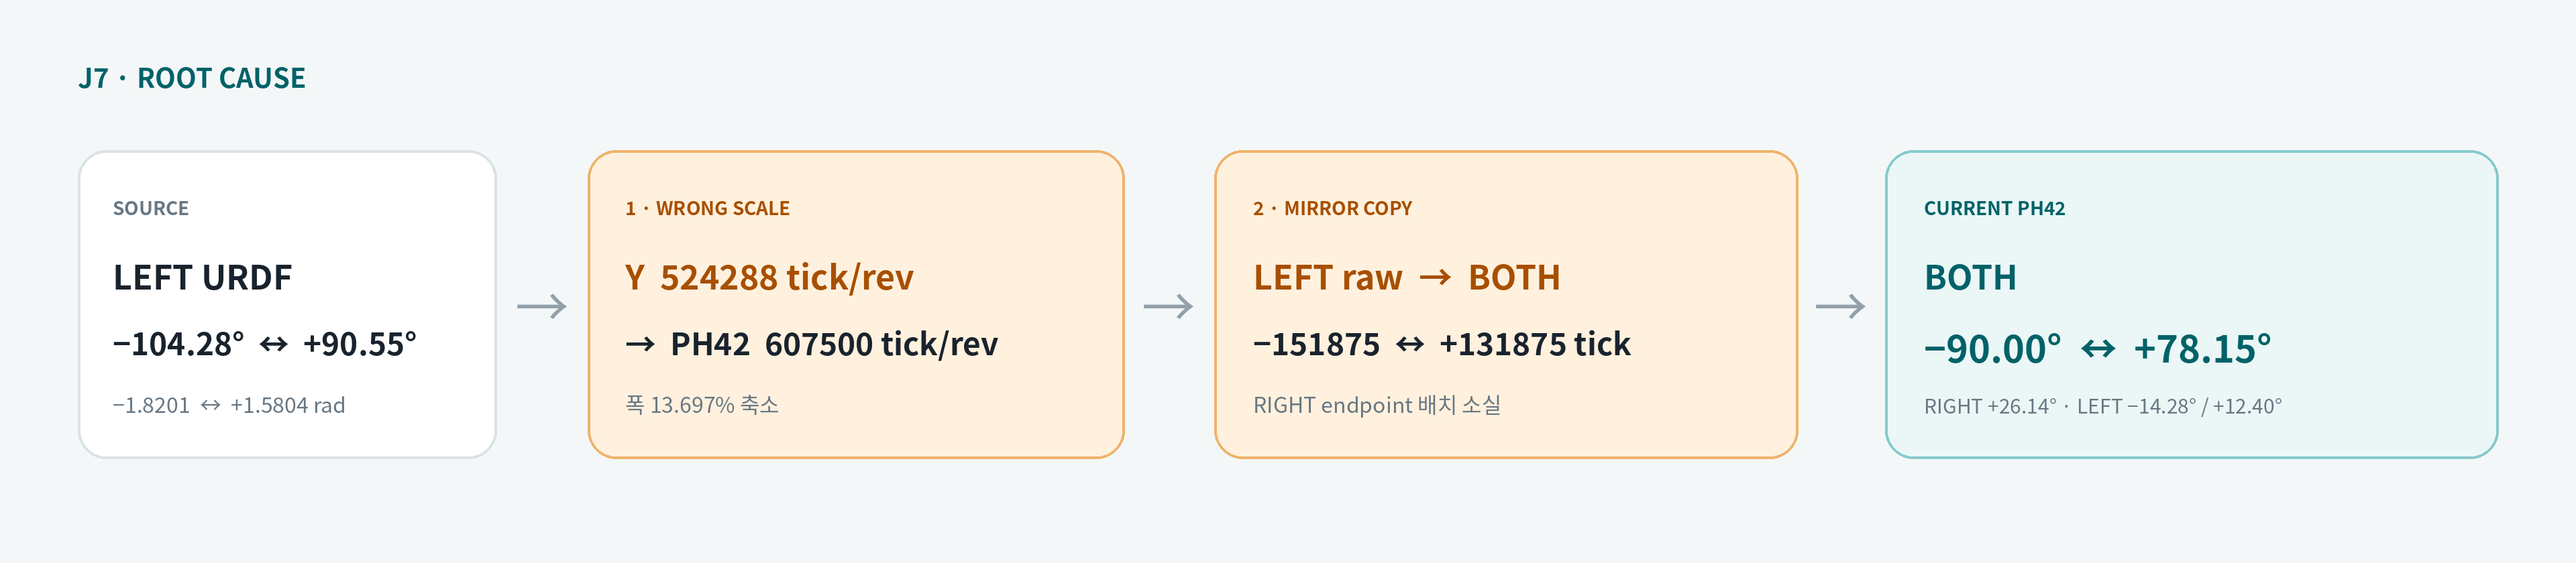
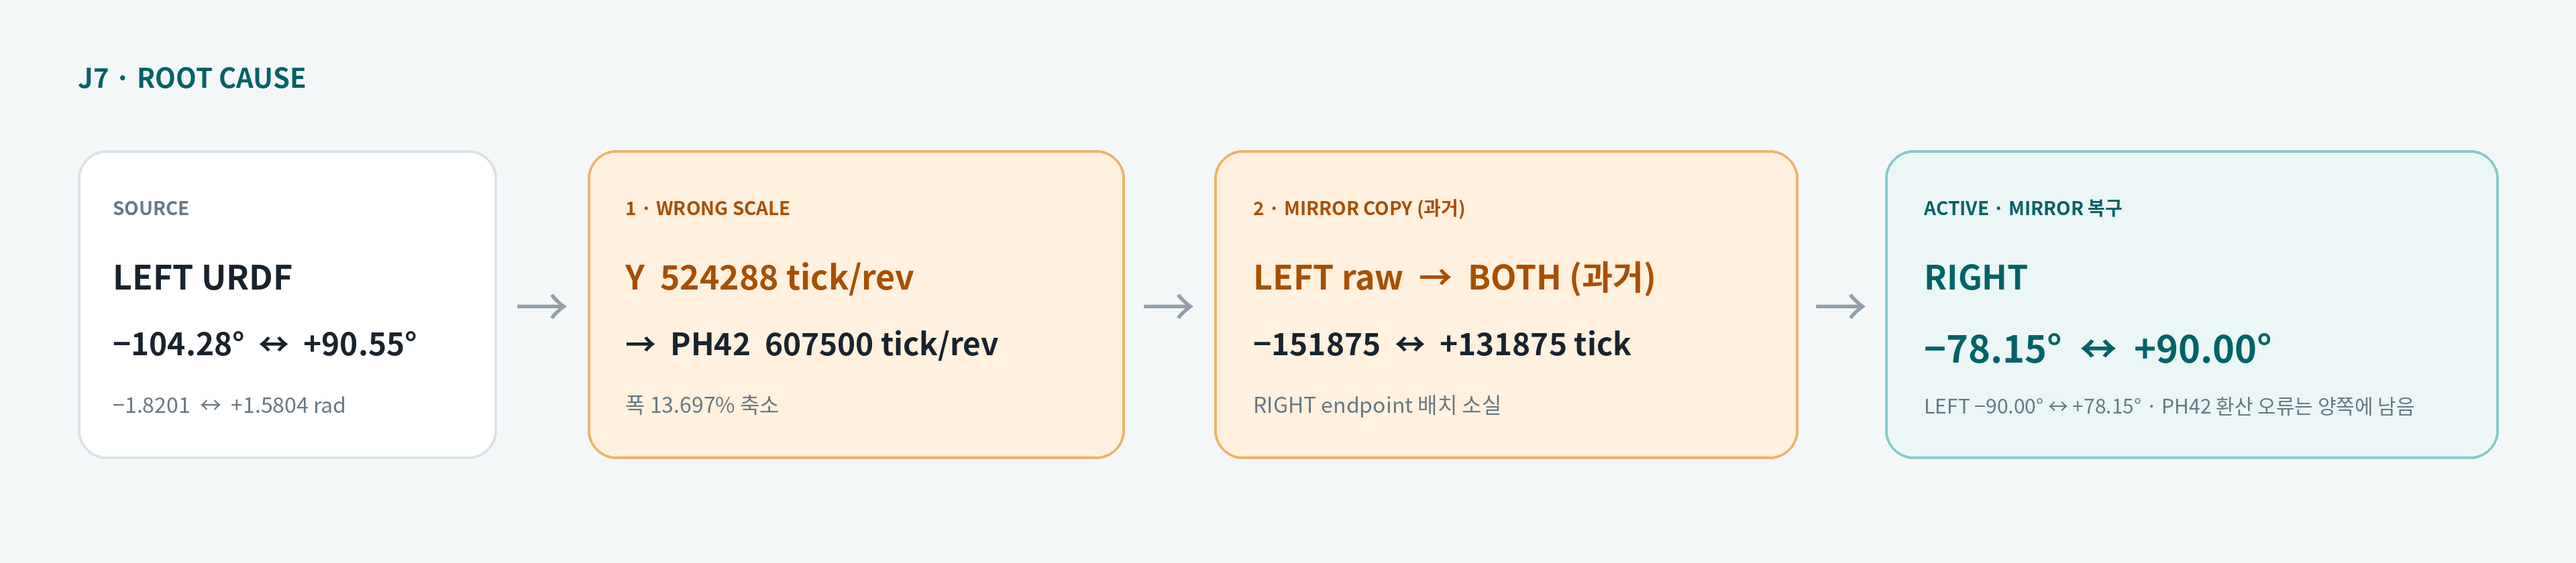
[REVIEW] F2 Safety: align mirrored J7 limits across profiles

diff --git a/docs/review/assets/f2_j7/J7_URDF_DXL_RANGE_VISUALIZATION.html b/docs/review/assets/f2_j7/J7_URDF_DXL_RANGE_VISUALIZATION.html
@@ -410,7 +410,7 @@
     <div>
       <p class="eyebrow">AI WORKER · F2 FOLLOWER · J7</p>
       <h1>URDF는 허용하지만, 현재 DXL은 막는다</h1>
-      <p class="subtitle">양쪽 모두 가동 폭이 줄었고, 좌우 mirror 복사 오류 때문에 오른손 +방향 손실이 특히 크다.</p>
+      <p class="subtitle">좌우 mirror 복사는 바로잡았지만, PH42 분해능 환산 오류가 남아 양쪽 가동 폭은 여전히 좁다.</p>
     </div>
     <div class="view-badge">HEAD CAM VIEW&nbsp; · &nbsp;왼손 ← 화면 → 오른손</div>
   </header>
@@ -516,7 +516,7 @@
         <circle class="ring-urdf" cx="300" cy="219" r="154" pathLength="360"
                 stroke-dasharray="194.834 165.166" transform="rotate(75.716 300 219)"/>
         <circle class="ring-dxl" cx="300" cy="219" r="154" pathLength="360"
-                stroke-dasharray="168.148 191.852" transform="rotate(101.852 300 219)"/>
+                stroke-dasharray="168.148 191.852" transform="rotate(90 300 219)"/>
         <circle class="ring-outline" cx="300" cy="219" r="171" pathLength="360"
                 stroke-dasharray="194.834 165.166" transform="rotate(75.716 300 219)"/>
 
@@ -525,8 +525,8 @@
         <path class="dir-arrow" d="M 180 125 A 150 150 0 0 0 148 168" marker-end="url(#arrow-r)"/>
         <text class="arc-label" x="139" y="119">+ θ</text>
         <path d="M225 88 L294 67" fill="none" stroke="#a44e00" stroke-width="1.5"/>
-        <text class="loss-label" x="172" y="91">0.55°</text>
-        <text class="loss-label" x="300" y="373" text-anchor="middle">26.14°</text>
+        <text class="loss-label" x="172" y="91">12.40°</text>
+        <text class="loss-label" x="300" y="373" text-anchor="middle">14.28°</text>
 
         <g transform="translate(300 219) scale(-1 1)" filter="url(#soft-shadow-r)" aria-label="HX2-D1 계열 그리퍼 실루엣">
           <path class="grip-arm" d="M-176,-25 H-56 L-38,-35 H-8 V35 H-38 L-56,25 H-176 Z"/>
@@ -543,16 +543,16 @@
         </g>
 
         <text class="range-main" x="300" y="406" text-anchor="middle">DXL 밖 26.69°</text>
-        <text class="range-sub" x="300" y="424" text-anchor="middle">오른손은 손실 대부분이 +방향에 몰림</text>
+        <text class="range-sub" x="300" y="424" text-anchor="middle">좌우 active 범위는 서로 mirror 관계</text>
       </svg>
 
       <div class="loss-chips" aria-label="오른손 부족 범위">
-        <div class="chip">− 방향 부족 <strong>0.55°</strong></div>
-        <div class="chip critical">+ 방향 부족 <strong>26.14°</strong></div>
+        <div class="chip">− 방향 부족 <strong>12.40°</strong></div>
+        <div class="chip critical">+ 방향 부족 <strong>14.28°</strong></div>
       </div>
 
       <div class="range-table">
-        <div class="ruler" style="--u1:8.841%;--u2:97.402%;--d1:9.091%;--d2:85.522%;">
+        <div class="ruler" style="--u1:8.841%;--u2:97.402%;--d1:14.478%;--d2:90.909%;">
           <span class="urdf-band"></span><span class="dxl-band"></span>
         </div>
         <div class="range-row">
@@ -565,8 +565,8 @@
         <div class="range-row">
           <div class="row-name"><span class="swatch dxl"></span>현재 DXL</div>
           <div class="values">
-            <strong>−90.00° ↔ +78.15°</strong>
-            <small>−1.570796 ↔ +1.363942 rad · −151875 ↔ +131875 tick</small>
+            <strong>−78.15° ↔ +90.00°</strong>
+            <small>−1.363942 ↔ +1.570796 rad · −131875 ↔ +151875 tick</small>
           </div>
         </div>
       </div>
@@ -574,7 +574,7 @@
   </section>
 
   <section class="cause" aria-label="오류 발생 흐름">
-    <h2>두 문제가 겹친 과정</h2>
+    <h2>두 오류와 현재 검토 소스의 처리</h2>
     <div class="flow">
       <div class="flow-step">
         <span class="step-no">SOURCE</span>
@@ -591,13 +591,13 @@
       <div class="flow-step problem">
         <span class="step-no">문제 2 · MIRROR 복사</span>
         <strong>왼손 raw 값을 오른손에도 복사</strong>
-        <p>양쪽 모두 −151875 ↔ +131875 tick</p>
+        <p>과거에는 양쪽 모두 −151875 ↔ +131875 tick</p>
       </div>
       <div class="flow-arrow">→</div>
       <div class="flow-step result">
-        <span class="step-no">현재 PH42 해석</span>
-        <strong>양쪽 모두 −90.00° ↔ +78.15°</strong>
-        <p>오른손 URDF +104.28° 명령은 +26.14°만큼 DXL hard max를 넘어감</p>
+        <span class="step-no">현재 active · MIRROR 복구</span>
+        <strong>오른손 −78.15° ↔ +90.00°</strong>
+        <p>왼손은 −90.00° ↔ +78.15° · PH42 분해능 오류는 양쪽에 남음</p>
       </div>
     </div>
   </section>

diff --git a/docker/task_motion_inspector/test_logic.py b/docker/task_motion_inspector/test_logic.py
@@ -31,8 +31,8 @@ ROBOT_DESCRIPTION = """
       <param name="Min Position Limit">-262144</param>
     </gpio>
     <gpio name="dxl7">
-      <param name="Max Position Limit">131875</param>
-      <param name="Min Position Limit">-151875</param>
+      <param name="Max Position Limit">151875</param>
+      <param name="Min Position Limit">-131875</param>
     </gpio>
     <gpio name="dxl37">
       <param name="Max_Position_Limit">131875</param>
@@ -49,11 +49,11 @@ class MotionLogicTest(unittest.TestCase):
 
     def test_runtime_description_updates_current_j7_limits(self):
         limits = parse_f2_limits(ROBOT_DESCRIPTION)
-        self.assertEqual(limits["arm_r_joint7"]["ticks"], [-151875, 131875])
+        self.assertEqual(limits["arm_r_joint7"]["ticks"], [-131875, 151875])
         self.assertEqual(limits["arm_l_joint7"]["ticks"], [-151875, 131875])
         self.assertAlmostEqual(
             limits["arm_r_joint7"]["hardware"][1],
-            131875 * PH42_RAD_PER_TICK,
+            151875 * PH42_RAD_PER_TICK,
         )
         self.assertEqual(
             limits["arm_r_joint7"]["source"],

diff --git a/docker/task_motion_inspector/logic.py b/docker/task_motion_inspector/logic.py
@@ -100,7 +100,7 @@ _FALLBACK_TICKS = {
     "arm_r_joint4": (-245000, 90000),
     "arm_r_joint5": (-262144, 262144),
     "arm_r_joint6": (-131072, 131072),
-    "arm_r_joint7": (-151875, 131875),
+    "arm_r_joint7": (-131875, 151875),
     "arm_l_joint1": (-262144, 262144),
     "arm_l_joint2": (0, 262144),
     "arm_l_joint3": (-262144, 262144),

diff --git a/docs/review/motion_inspector.md b/docs/review/motion_inspector.md
@@ -70,8 +70,9 @@ runtime `/robot_description`에서 URDF lower·upper와 ros2_control의 Min·Max
 읽어 비교한다. 이 값은 설정 snapshot이지 DXL EEPROM read-back이 아니다.
 
 runtime description이 도착하기 전 fallback은 이번 검토 브랜치의 active 보수 값과
-일치시켰다. 특히 좌우 J7 모두 active tick 범위 `[-151875, 131875]`를 사용한다. PH42
-해상도로 계산한 확장 후보는 표시·분석 코드에 자동 적용하지 않는다.
+일치시켰다. 오른쪽 J7은 `[-131875, 151875]`, 왼쪽 J7은
+`[-151875, 131875]` tick을 사용한다. PH42 해상도로 계산한 확장 후보는 표시·분석
+코드에 자동 적용하지 않는다.
 
 ## 진단 규칙
 
